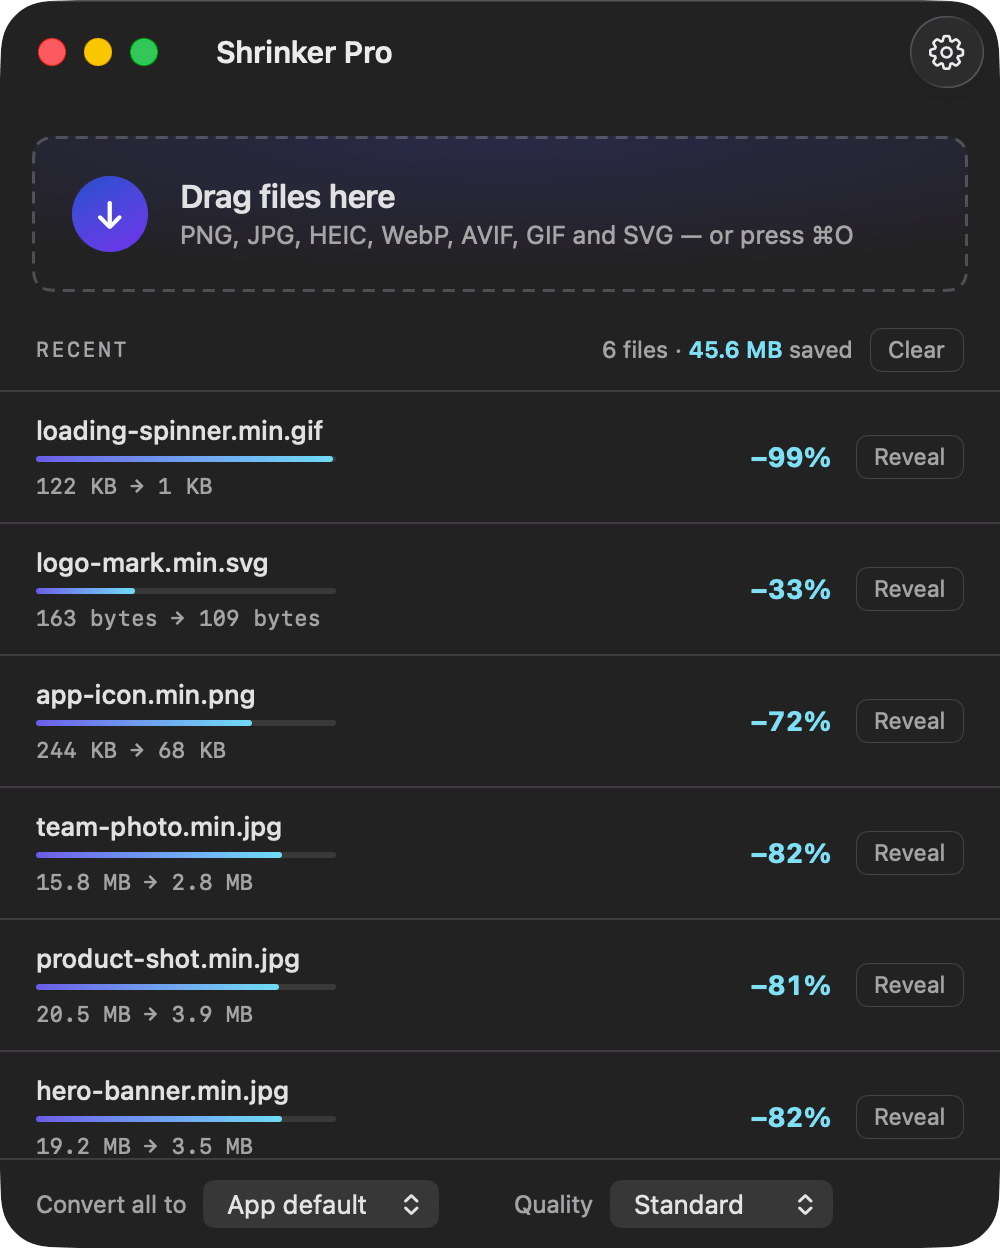
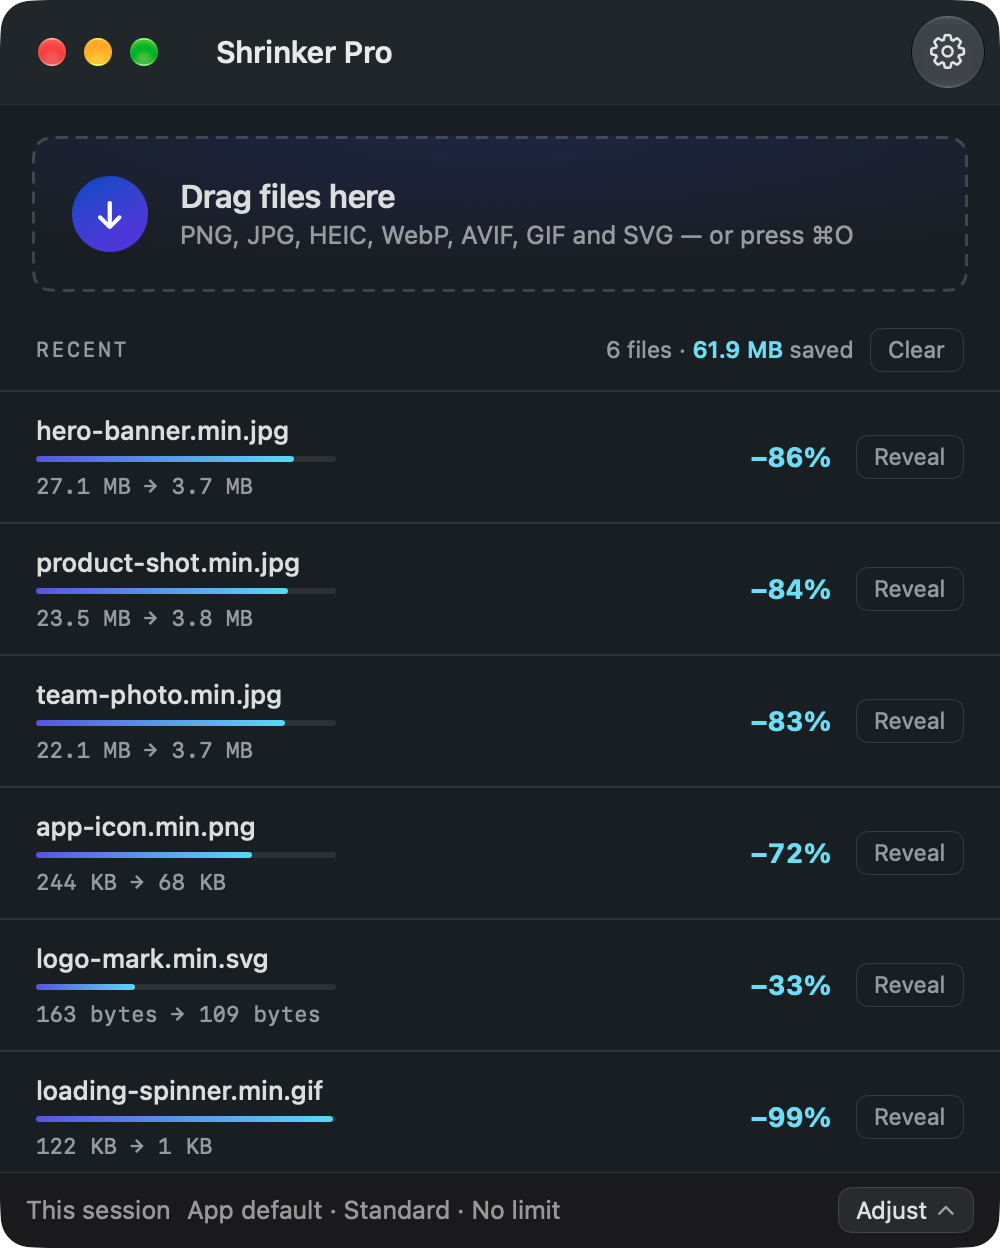
Prepare 1.3.0: version, changelog, and fresh screenshots
The CLI's hand-kept version constant moved with project.yml's, which the
guard test in CommandLineOptionsTests caught rather than a reviewer.

All six screenshots are recaptured against this build: the old ones show
the three-control footer that no longer exists, and the Settings capture
predates the Quality footer's new sentence about the session bar.

Claude-Session: https://claude.ai/code/session_01TGV5BsgJUUFie3qMz5UN8a

diff --git a/Sources/ShrinkerPro/Core/ShrinkerVersion.swift b/Sources/ShrinkerPro/Core/ShrinkerVersion.swift
@@ -16,5 +16,5 @@ import Foundation
 /// something other than good intentions keeping it correct.
 enum ShrinkerVersion {
     /// Must equal `MARKETING_VERSION` in project.yml, which is asserted.
-    static let current = "1.2.1"
+    static let current = "1.3.0"
 }

diff --git a/CHANGELOG.md b/CHANGELOG.md
@@ -4,6 +4,49 @@ Notable changes per release. Downloads and signed artifacts are on the
 [releases page](https://github.com/jeso87/ShrinkerPro/releases); existing
 installs are offered updates automatically by Sparkle.
 
+## 1.3.0 — 2026-09-16
+
+### Added
+
+**Max size.** Give Shrinker Pro a number and nothing comes out bigger than it
+on its longest side: a landscape image is scaled by its width, a portrait one
+by its height, always keeping the aspect ratio. Anything already inside the cap
+is left at the size it arrived — the number is a ceiling, not a target, and
+nothing is ever scaled up.
+
+Every still image is resized by the same resampler, whichever encoder finishes
+the file, so a PNG and a WebP capped at the same number match. GIF is the one
+exception, and it is resized by gifsicle precisely so an animation stays an
+animation. SVG is unaffected: it is vector, so it has no pixel size to cap.
+
+A resized file is written even if it comes out larger — the same exemption
+converting already had. You asked for those dimensions.
+
+**`--max-size` for the command line.**
+
+```
+shrinker --max-size 2000 ./camera-roll
+```
+
+### Changed
+
+**The window footer is now a session settings bar.** One line states what will
+happen to the next files you drop — `WebP · High · Max 2000px` — and **Adjust**
+opens Convert all to, Quality and Max size in place. Done, Escape, or a click
+anywhere above closes it again; nothing is discarded by closing, because every
+control applies the moment you use it. A dot marks any setting that differs
+from your defaults, and **Reset** puts all three back.
+
+The three controls in a row needed about 620pt of window. A summary fits any
+width, and it says something the row never did: these settings are the
+session's, not the app's.
+
+**Quality set in the window no longer changes your saved default.** It applies
+to that session and is gone at the next launch, which is now true of everything
+in the bar — the defaults each session starts from still live in Settings, and
+that is where to change them for good. If you never open the panel, nothing
+about your quality changes.
+
 ## 1.2.1 — 2026-09-14
 
 ### Added
